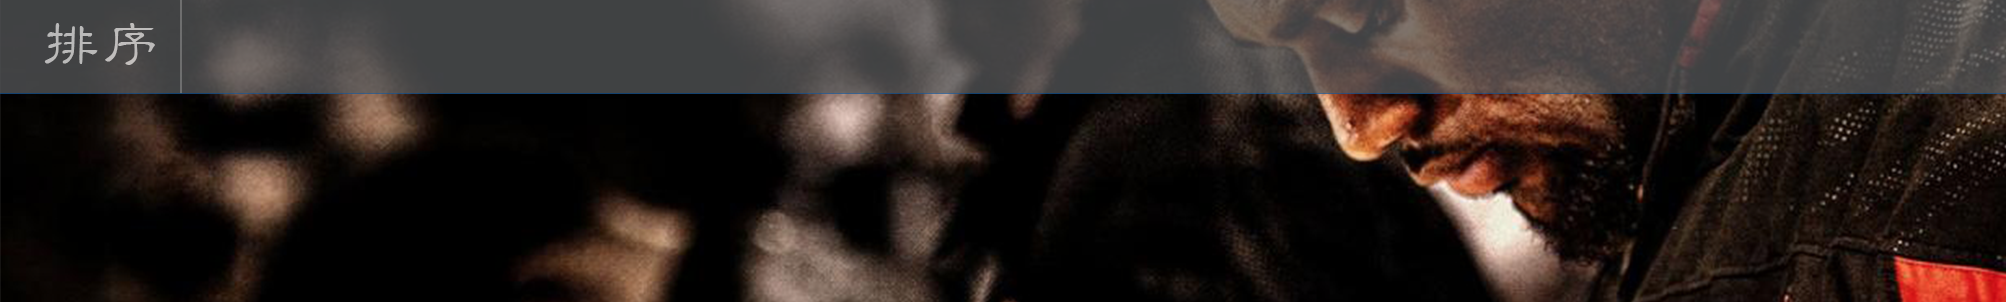
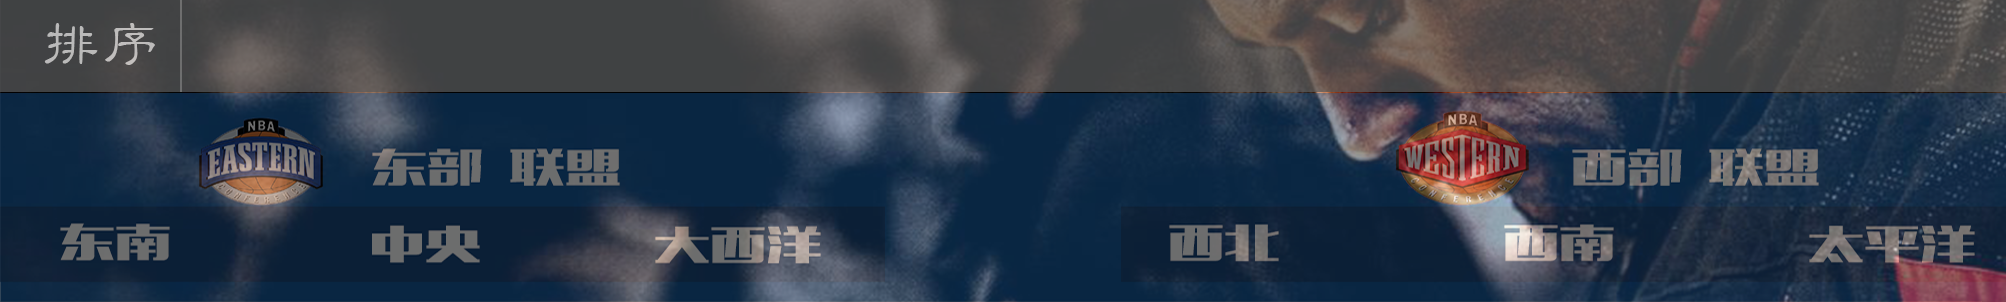
bg

diff --git a/src/com/kmno4/presentation/PlayerSelectionPanel.java b/src/com/kmno4/presentation/PlayerSelectionPanel.java
@@ -45,7 +45,7 @@ public class PlayerSelectionPanel extends JPanel implements MouseListener,
 	JLabel lb_place = new JLabel("分区");
 	JLabel lb_season = new JLabel("赛季");
 	JLabel lb_sort_season = new JLabel("赛季");
-
+	JLabel foreground=new JLabel();
 	JComboBox<String> 
 	    cb_position, 
 	    cb_district, 
@@ -58,10 +58,12 @@ public class PlayerSelectionPanel extends JPanel implements MouseListener,
 	
 	private JButton submit = new JButton("提交");
 
-	JLabel pickup = new JLabel("筛选");
-	JLabel sort = new JLabel("排序");
-	JLabel avg_sort = new JLabel("场均数据");
-	JLabel total_sort = new JLabel("总数据");
+	JLabel pickup = new JLabel("筛选",JLabel.CENTER);
+	JLabel sort = new JLabel("排序",JLabel.CENTER);
+	JLabel avg_sort = new JLabel("场均数据",JLabel.CENTER);
+	JLabel total_sort = new JLabel("总数据",JLabel.CENTER);
+	
+	JLabel forGround=new JLabel();
 
 
 	/**
@@ -96,29 +98,26 @@ public class PlayerSelectionPanel extends JPanel implements MouseListener,
 		cb_sort_season.setFont(new Font("default", Font.PLAIN, 13));
 		cb_avg_sort_data.setFont(new Font("default", Font.PLAIN, 13));
 		cb_total_sort_data.setFont(new Font("default", Font.PLAIN, 13));
-		
-		
-		// 第一行
-//		lb_search.setBounds(606, 11, Config.TEXT_WIDTH, Config.TEXT_height);
-//		add(lb_search);
-
-//		tf_search = new TextField();
-//		// tf_search.setText("输入关键字");
-//		tf_search.setBounds(650, 11, Config.SELECTION_SEARCH_WIDTH,
-//				Config.SELECTION_SEARCH_HEIGHT);
-//		tf_search.setBackground(Color.GRAY);
-//		add(tf_search);
+		pickup.setFont(new Font("default", Font.PLAIN, 13));
+		pickup.setForeground(Color.WHITE);
+		sort.setFont(new Font("default", Font.PLAIN, 13));
+		sort.setForeground(Color.WHITE);
 
 		title.setBounds(15, 11, 30, 30);
 		title.setBackground(Color.WHITE);
 		add(title);
 
 		//
-		pickup.setBounds(69, 18, 35, 16);
+		pickup.setBounds(69, 18, 50, 20);
 		add(pickup);
 
-		sort.setBounds(119, 18, 35, 16);
+		sort.setBounds(119, 18, 50, 20);
 		add(sort);
+		
+		forGround.setIcon(Config.LABEL_FOREGROUND);
+		add(forGround);
+		foreground.setIcon(Config.LABEL_FOREGROUND);
+		add(foreground);
 		
 		initPickupBounds();
 		initSortBounds();
@@ -237,7 +236,7 @@ public class PlayerSelectionPanel extends JPanel implements MouseListener,
 		add(cb_position);
 
 		lb_season.setBounds(21 * Config.SORT_WIDTH
-				- Config.SELECTION_COMB_TEAM_WIDTH - Config.COMB_TEXT_GAP, 49,
+				- Config.SELECTION_COMB_TEAM_WIDTH - Config.COMB_TEXT_GAP, 50,
 				Config.TEXT_WIDTH, Config.TEXT_height);
 		add(lb_season);
 		cb_season
@@ -255,16 +254,16 @@ public class PlayerSelectionPanel extends JPanel implements MouseListener,
 	}
 
 	public void initSortBounds() {
-
-		avg_sort.setBounds(100+50, 45, Config.SORT_WIDTH * 2, Config.SORT_HEIGHT);
+		foreground.setBounds(100+30-6, 45, Config.SORT_WIDTH * 3, Config.SORT_HEIGHT+14);
+		avg_sort.setBounds(100+30-6, 45, Config.SORT_WIDTH * 3, Config.SORT_HEIGHT+14);
 		total_sort
-				.setBounds(100+50, 90, Config.SORT_WIDTH * 2, Config.SORT_HEIGHT);
-		cb_avg_sort_data.setBounds(160+30, 77, Config.SELECTION_SEARCH_WIDTH,
+				.setBounds(100+30-6, 89, Config.SORT_WIDTH * 3, Config.SORT_HEIGHT+15);
+		cb_avg_sort_data.setBounds(160+55, 77, Config.SELECTION_SEARCH_WIDTH,
 				Config.COMBOBOX_HEIGHT);
-		cb_total_sort_data.setBounds(160, 77, Config.SELECTION_SEARCH_WIDTH,
+		cb_total_sort_data.setBounds(160+55, 77, Config.SELECTION_SEARCH_WIDTH,
 				Config.COMBOBOX_HEIGHT);
 		lb_sort_season.setBounds(15 * Config.SORT_WIDTH
-				- Config.SELECTION_COMB_TEAM_WIDTH - Config.COMB_TEXT_GAP, 77,
+				- Config.SELECTION_COMB_TEAM_WIDTH - Config.COMB_TEXT_GAP, 80,
 				Config.TEXT_WIDTH, Config.TEXT_height);
 		cb_sort_season
 				.setBounds(15 * Config.SORT_WIDTH
@@ -274,6 +273,8 @@ public class PlayerSelectionPanel extends JPanel implements MouseListener,
 	}
 
 	public void showPickup() {
+		forGround.setBounds(pickup.getX(), pickup.getY(), Config.PLAYER_TOP_LABEL_WIDTH,Config.PLAYER_TOP_LABEL_HEIGHT);
+		
 		lb_percent.setVisible(true);
 		lb_efficiency.setVisible(true);
 		lb_location.setVisible(true);
@@ -286,6 +287,7 @@ public class PlayerSelectionPanel extends JPanel implements MouseListener,
 		cb_season.setVisible(true);
 		submit.setVisible(true);
 
+		foreground.setVisible(false);
 		avg_sort.setVisible(false);
 		total_sort.setVisible(false);
 		cb_avg_sort_data.setVisible(false);
@@ -295,6 +297,9 @@ public class PlayerSelectionPanel extends JPanel implements MouseListener,
 	}
 
 	public void showSortAvg() {
+		forGround.setBounds(sort.getX(), sort.getY(), Config.PLAYER_TOP_LABEL_WIDTH,Config.PLAYER_TOP_LABEL_HEIGHT);
+		foreground.setBounds(100+30-6, 45, Config.SORT_WIDTH * 3, Config.SORT_HEIGHT+14);
+		
 		lb_percent.setVisible(false);
 		lb_efficiency.setVisible(false);
 		lb_location.setVisible(false);
@@ -307,6 +312,7 @@ public class PlayerSelectionPanel extends JPanel implements MouseListener,
 		cb_season.setVisible(false);
 		submit.setVisible(false);
 
+		foreground.setVisible(true);
 		avg_sort.setVisible(true);
 		total_sort.setVisible(true);
 		cb_avg_sort_data.setVisible(true);
@@ -316,6 +322,7 @@ public class PlayerSelectionPanel extends JPanel implements MouseListener,
 	}
 
 	public void showSortTotal() {
+		foreground.setBounds(100+30-6, 89, Config.SORT_WIDTH * 3, Config.SORT_HEIGHT+14);
 		cb_avg_sort_data.setVisible(false);
 		cb_total_sort_data.setVisible(true);
 	}

diff --git a/src/com/kmno4/presentation/MatchSelectionPanel.java b/src/com/kmno4/presentation/MatchSelectionPanel.java
@@ -4,7 +4,6 @@ import java.awt.Color;
 import java.awt.Font;
 import java.awt.Graphics;
 import java.awt.GridLayout;
-import java.awt.event.MouseAdapter;
 import java.awt.event.MouseEvent;
 
 import javax.swing.JLabel;
@@ -13,6 +12,7 @@ import javax.swing.JPanel;
 import Enum.Season;
 
 import com.kmno4.common.Config;
+import com.kmno4.presentation.button.LMouseAdapter;
 
 @SuppressWarnings("serial")
 public class MatchSelectionPanel extends JPanel {
@@ -23,10 +23,8 @@ public class MatchSelectionPanel extends JPanel {
 		lb_thirdSeason,
 		lb_forthSeason,
 		lblNewLabel_1,
-		lb_vs;
-//	JComboBox<String> 
-//	    cb_team1,
-//	    cb_team2;
+		lb_vs,
+		foreground;
 	
 	public MatchSelectionPanel() {
 		setLayout(null);
@@ -34,10 +32,11 @@ public class MatchSelectionPanel extends JPanel {
 		this.setVisible(true);
 		this.setBackground(new Color(0, 0, 0, 0));
 		
-//		cb_team1=new JComboBox();
-//		cb_team1.setBounds(22, 75, 186, 27);
-//		add(cb_team1);
-			
+		foreground=new JLabel();
+		foreground.setIcon(Config.LABEL_FOREGROUND);
+		foreground.setBounds(0, 134/3, Config.UI_WIDTH/3, 134/3+10);
+		add(foreground);
+		
 		seasonPanel = new JPanel();
 		seasonPanel.setBounds(0, 0, Config.UI_WIDTH, 134);
 		seasonPanel.setBackground(new Color(0, 0, 0, 0));
@@ -55,21 +54,24 @@ public class MatchSelectionPanel extends JPanel {
 		lb_thirdSeason.setForeground(Color.white);
 		seasonPanel.add(lb_thirdSeason);
 		add(seasonPanel);
-		lb_firstSeason.addMouseListener(new MouseAdapter() {
+		lb_firstSeason.addMouseListener(new LMouseAdapter() {
 			@Override
 			public void mouseClicked(MouseEvent e) {
+				foreground.setBounds(lb_firstSeason.getX(), 134/3, Config.UI_WIDTH/3, 134/3+10);
 				changeSeason(Season.season12_13);
 			}
 		});
-		lb_secondSeason.addMouseListener(new MouseAdapter() {
+		lb_secondSeason.addMouseListener(new LMouseAdapter() {
 			@Override
 			public void mouseClicked(MouseEvent e) {
+				foreground.setBounds(lb_secondSeason.getX(), 134/3, Config.UI_WIDTH/3, 134/3+10);
 				changeSeason(Season.season13_14);
 			}
 		});
-		lb_thirdSeason.addMouseListener(new MouseAdapter() {
+		lb_thirdSeason.addMouseListener(new LMouseAdapter() {
 			@Override
 			public void mouseClicked(MouseEvent e) {
+				foreground.setBounds(lb_thirdSeason.getX(), 134/3, Config.UI_WIDTH/3, 134/3+10);
 				changeSeason(Season.season14_15);
 			}
 		});

diff --git a/src/com/kmno4/common/Config.java b/src/com/kmno4/common/Config.java
@@ -128,6 +128,8 @@ public class Config {
 	public static final int PLAYER_NUMBER_HEIGHT=70;
 	public static final int PLAYER_LABEL_HEIGHT=15;
 	public static final int PLAYER_LABEL_WIDTH=60;
+	public static final int PLAYER_TOP_LABEL_WIDTH=50;
+	public static final int PLAYER_TOP_LABEL_HEIGHT=20;
 	
 	public static final int HEAD_ICON_FRAME_WIDTH = 368;
 	public static final int HEAD_ICON_FRAME_HEIGHT = 148;
@@ -166,21 +168,21 @@ public class Config {
 	public static final Icon SPLASH_BACKGROUND=new ImageIcon("images/splash_bg.png");
 	
 	public static final ImageIcon PLAYER_SELECTION_SORT_BACKGROUND=new ImageIcon("images/player_selection_sort_bg.png");
-	public static final ImageIcon PLAYER_SELECTION_BACKGROUND=new ImageIcon("images/selection_bg3.png");
+	public static final ImageIcon PLAYER_SELECTION_BACKGROUND=new ImageIcon("images/player_selection_bg_1.png");
 	public static final ImageIcon TOP_TAB_BACKGROUND=new ImageIcon("images/top_tab_background_1.png");
 	public static final ImageIcon WELCOME=new ImageIcon("images/welcome.png");
-	public static final ImageIcon TEAM_SELECTION_BACKGROUND=new ImageIcon("images/team_selection_bg4.png");
+	public static final ImageIcon TEAM_SELECTION_BACKGROUND=new ImageIcon("images/team_selection_bg_1.png");
 	public static final ImageIcon CLOSE_ICON=new ImageIcon("images/close.png");
 	public static final ImageIcon TOP_LINE=new ImageIcon("images/top_line.png");
 	public static final ImageIcon LABEL_FOREGROUND=new ImageIcon("images/label_foreground.png");
 	
 	//match界面所有的icon
-	public static final ImageIcon MATCH_SELECTION_BACKGROUND=new ImageIcon("images/match_selection_bg_2.png");
+	public static final ImageIcon MATCH_SELECTION_BACKGROUND=new ImageIcon("images/match_selection_bg_1.png");
 	public static final ImageIcon SCHEDULE=new ImageIcon("images/schedule.png");
 	public static final ImageIcon TEAM_SELECTION=new ImageIcon("images/select_team.png");
 	
 	
-	public static final ImageIcon HOT_SELECTION_BACKGROUND=new ImageIcon("images/hot_selection_bg2.png");
+	public static final ImageIcon HOT_SELECTION_BACKGROUND=new ImageIcon("images/hot_selection_bg_1.png");
 	public static final ImageIcon LABEL_CALENDAR_BACKGROUND=new ImageIcon("images/label_calendar_bg_1.png");
 	
 	public static ArrayList<ImageIcon> getLoadingMotions(){

diff --git a/src/main/FucMain.java b/src/main/FucMain.java
@@ -83,7 +83,7 @@ public class FucMain {
 				frame.setSize(Config.UI_WIDTH, Config.UI_HEIGHT);
 				//frame.setLocation(screenwidth / 8, screenheight / 8);
 				frame.setLocationRelativeTo(null);
-				MainFrame.mainFrame.playerSelectionPanel.setBounds(0,
+				MainFrame.mainFrame.hotSelectionPanel.setBounds(0,
 						Config.TOP_TAB_HEIGHT + Config.INTRODUCTION_WHITE,
 						Config.UI_WIDTH, Config.SELECTION_HEIGHT);
 				frame.setVisible(true);
